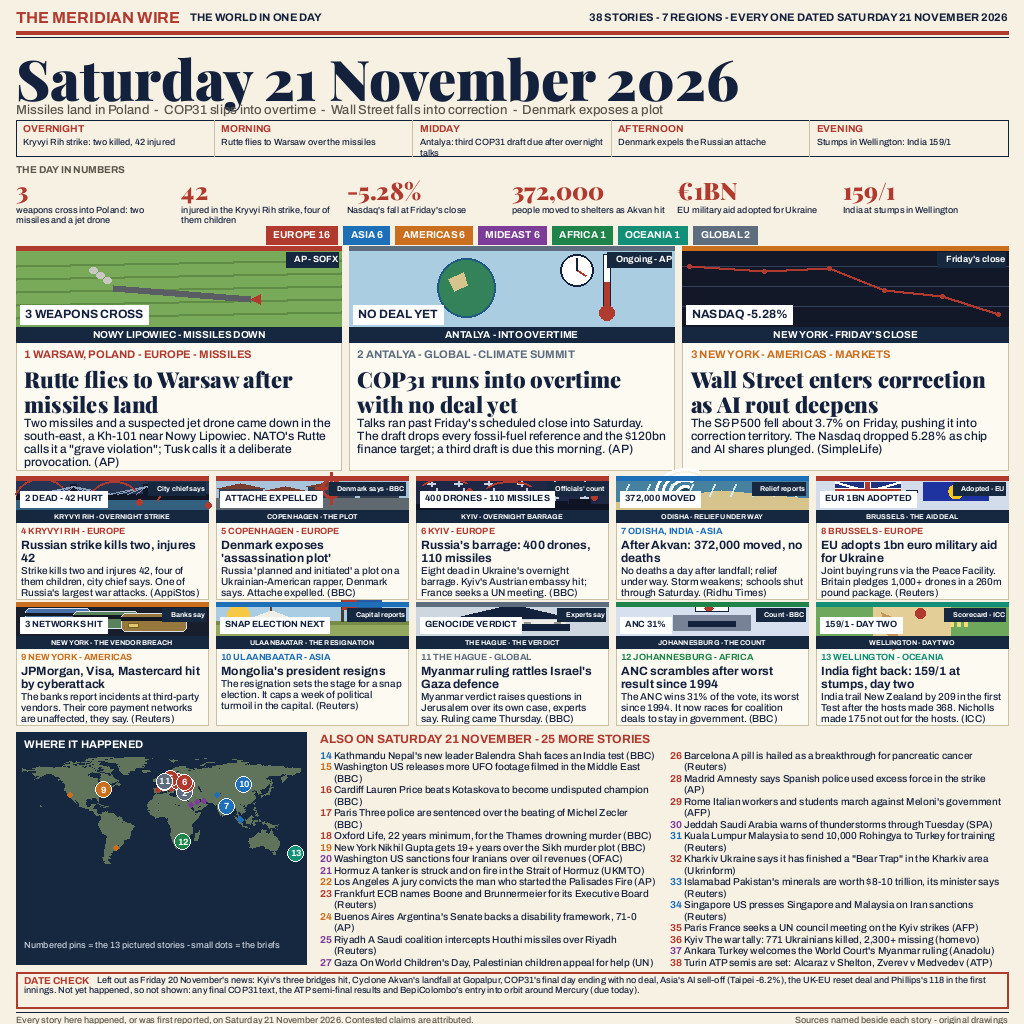
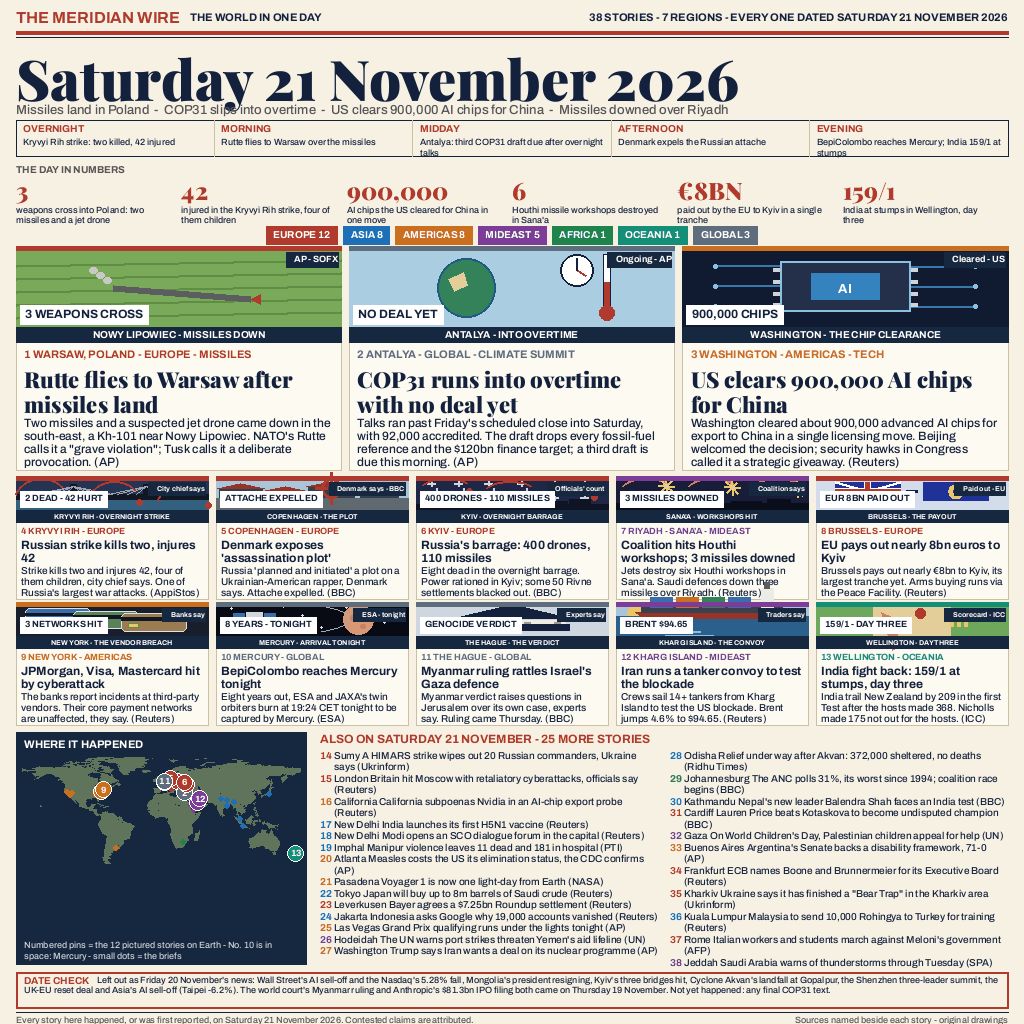
Add files via upload

diff --git a/draw.py b/draw.py
@@ -96,10 +96,10 @@ def fit_size(s, name, start, max_w, floor=10):
 NUMBERS = [
     ("3", "weapons cross into Poland: two missiles and a jet drone"),
     ("42", "injured in the Kryvyi Rih strike, four of them children"),
-    ("-5.28%", "Nasdaq's fall at Friday's close"),
-    ("372,000", "people moved to shelters as Akvan hit"),
-    ("€1BN", "EU military aid adopted for Ukraine"),
-    ("159/1", "India at stumps in Wellington"),
+    ("900,000", "AI chips the US cleared for China in one move"),
+    ("6", "Houthi missile workshops destroyed in Sana'a"),
+    ("€8BN", "paid out by the EU to Kyiv in a single tranche"),
+    ("159/1", "India at stumps in Wellington, day three"),
 ]
 
 TIMELINE = [
@@ -107,12 +107,12 @@ TIMELINE = [
     ("Morning", "Rutte flies to Warsaw over the missiles"),
     ("Midday", "Antalya: third COP31 draft due after overnight talks"),
     ("Afternoon", "Denmark expels the Russian attache"),
-    ("Evening", "Stumps in Wellington: India 159/1"),
+    ("Evening", "BepiColombo reaches Mercury; India 159/1 at stumps"),
 ]
 
 REGION_COUNTS = [
-    ("EUROPE", 16), ("ASIA", 6), ("AMERICAS", 6), ("MIDEAST", 6),
-    ("AFRICA", 1), ("OCEANIA", 1), ("GLOBAL", 2),
+    ("EUROPE", 12), ("ASIA", 8), ("AMERICAS", 8), ("MIDEAST", 5),
+    ("AFRICA", 1), ("OCEANIA", 1), ("GLOBAL", 3),
 ]
 
 # no, place, region, topic, headline, deck (sources in parens), strip source
@@ -127,18 +127,20 @@ CARDS = [
      21.0, 52.2, "poland"),
     (2, "ANTALYA", "GLOBAL", "CLIMATE SUMMIT",
      "COP31 runs into overtime with no deal yet",
-     "Talks ran past Friday's scheduled close into Saturday. The draft "
-     "drops every fossil-fuel reference and the $120bn finance target; "
-     "a third draft is due this morning. (AP)",
+     "Talks ran past Friday's scheduled close into Saturday, with "
+     "92,000 accredited. The draft drops every fossil-fuel reference "
+     "and the $120bn finance target; a third draft is due this "
+     "morning. (AP)",
      "Ongoing - AP", "NO DEAL YET", "ANTALYA - INTO OVERTIME",
      30.7, 36.9, "cop31"),
-    (3, "NEW YORK", "AMERICAS", "MARKETS",
-     "Wall Street enters correction as AI rout deepens",
-     "The S&P 500 fell about 3.7% on Friday, pushing it into "
-     "correction territory. The Nasdaq dropped 5.28% as chip and AI "
-     "shares plunged. (SimpleLife)",
-     "Friday's close", "NASDAQ -5.28%", "NEW YORK - FRIDAY'S CLOSE",
-     -74.0, 40.7, "markets"),
+    (3, "WASHINGTON", "AMERICAS", "TECH",
+     "US clears 900,000 AI chips for China",
+     "Washington cleared about 900,000 advanced AI chips for export "
+     "to China in a single licensing move. Beijing welcomed the "
+     "decision; security hawks in Congress called it a strategic "
+     "giveaway. (Reuters)",
+     "Cleared - US", "900,000 CHIPS", "WASHINGTON - THE CHIP CLEARANCE",
+     -77.0, 38.9, "chips"),
     (4, "KRYVYI RIH", "EUROPE", "STRIKE",
      "Russian strike kills two, injures 42",
      "Strike kills two and injures 42, four of them children, city "
@@ -153,21 +155,21 @@ CARDS = [
      12.6, 55.7, "copenhagen"),
     (6, "KYIV", "EUROPE", "BARRAGE",
      "Russia's barrage: 400 drones, 110 missiles",
-     "Eight dead in Ukraine's overnight barrage. Kyiv's Austrian "
-     "embassy hit; France seeks a UN meeting. (BBC)",
+     "Eight dead in the overnight barrage. Power rationed in Kyiv; "
+     "some 50 Rivne settlements blacked out. (BBC)",
      "Officials' count", "400 DRONES - 110 MISSILES",
      "KYIV - OVERNIGHT BARRAGE", 30.5, 50.4, "barrage"),
-    (7, "ODISHA, INDIA", "ASIA", "CYCLONE AFTERMATH",
-     "After Akvan: 372,000 moved, no deaths",
-     "No deaths a day after landfall; relief under way. Storm "
-     "weakens; schools shut through Saturday. (Ridhu Times)",
-     "Relief reports", "372,000 MOVED", "ODISHA - RELIEF UNDER WAY",
-     84.9, 19.3, "akvan"),
+    (7, "RIYADH - SANA'A", "MIDEAST", "ESCALATION",
+     "Coalition hits Houthi workshops; 3 missiles downed",
+     "Jets destroy six Houthi workshops in Sana'a. Saudi defences "
+     "down three missiles over Riyadh. (Reuters)",
+     "Coalition says", "3 MISSILES DOWNED", "SANA'A - WORKSHOPS HIT",
+     46.7, 24.6, "riyadh"),
     (8, "BRUSSELS", "EUROPE", "MILITARY AID",
-     "EU adopts 1bn euro military aid for Ukraine",
-     "Joint buying runs via the Peace Facility. Britain pledges "
-     "1,000+ drones in a 260m pound package. (Reuters)",
-     "Adopted - EU", "EUR 1BN ADOPTED", "BRUSSELS - THE AID DEAL",
+     "EU pays out nearly 8bn euros to Kyiv",
+     "Brussels pays out nearly \u20ac8bn to Kyiv, its largest tranche "
+     "yet. Arms buying runs via the Peace Facility. (Reuters)",
+     "Paid out - EU", "EUR 8BN PAID OUT", "BRUSSELS - THE PAYOUT",
      4.3, 50.8, "ukeu"),
     (9, "NEW YORK", "AMERICAS", "CYBERATTACK",
      "JPMorgan, Visa, Mastercard hit by cyberattack",
@@ -175,68 +177,69 @@ CARDS = [
      "payment networks are unaffected, they say. (Reuters)",
      "Banks say", "3 NETWORKS HIT", "NEW YORK - THE VENDOR BREACH",
      -73.9, 40.8, "cyber"),
-    (10, "ULAANBAATAR", "ASIA", "RESIGNATION",
-     "Mongolia's president resigns",
-     "The resignation sets the stage for a snap election. It caps a "
-     "week of political turmoil in the capital. (Reuters)",
-     "Capital reports", "SNAP ELECTION NEXT", "ULAANBAATAR - THE RESIGNATION",
-     106.9, 47.9, "mongolia"),
+    (10, "MERCURY", "GLOBAL", "DEEP SPACE",
+     "BepiColombo reaches Mercury tonight",
+     "Eight years out, ESA and JAXA's twin orbiters burn at 19:24 "
+     "CET tonight to be captured by Mercury. (ESA)",
+     "ESA - tonight", "8 YEARS - TONIGHT", "MERCURY - ARRIVAL TONIGHT",
+     None, None, "mercury"),
     (11, "THE HAGUE", "GLOBAL", "WORLD COURT",
      "Myanmar ruling rattles Israel's Gaza defence",
      "Myanmar verdict raises questions in Jerusalem over its own "
      "case, experts say. Ruling came Thursday. (BBC)",
      "Experts say", "GENOCIDE VERDICT", "THE HAGUE - THE VERDICT",
      4.3, 52.1, "seoul"),
-    (12, "JOHANNESBURG", "AFRICA", "ELECTION",
-     "ANC scrambles after worst result since 1994",
-     "The ANC wins 31% of the vote, its worst since 1994. It now "
-     "races for coalition deals to stay in government. (BBC)",
-     "Count - BBC", "ANC 31%", "JOHANNESBURG - THE COUNT",
-     28.0, -26.2, "bukele"),
+    (12, "KHARG ISLAND", "MIDEAST", "OIL",
+     "Iran runs a tanker convoy to test the blockade",
+     "Crews sail 14+ tankers from Kharg Island to test the US "
+     "blockade. Brent jumps 4.6% to $94.65. (Reuters)",
+     "Traders say", "BRENT $94.65", "KHARG ISLAND - THE CONVOY",
+     50.3, 29.2, "tanker"),
     (13, "WELLINGTON", "OCEANIA", "CRICKET",
-     "India fight back: 159/1 at stumps, day two",
+     "India fight back: 159/1 at stumps, day three",
      "India trail New Zealand by 209 in the first Test after the "
      "hosts made 368. Nicholls made 175 not out for the hosts. (ICC)",
-     "Scorecard - ICC", "159/1 - DAY TWO", "WELLINGTON - DAY TWO",
+     "Scorecard - ICC", "159/1 - DAY THREE", "WELLINGTON - DAY THREE",
      174.8, -41.3, "cricket"),
 ]
 
 # no, one-line text (source in parens), region, pin lon/lat (None = off-map)
 BRIEFS = [
-    (14, "Kathmandu Nepal's new leader Balendra Shah faces an India test (BBC)", "ASIA", 85.3, 27.7),
-    (15, "Washington US releases more UFO footage filmed in the Middle East (BBC)", "AMERICAS", -77.0, 38.9),
-    (16, "Cardiff Lauren Price beats Kotaskova to become undisputed champion (BBC)", "EUROPE", -3.2, 51.5),
-    (17, "Paris Three police are sentenced over the beating of Michel Zecler (BBC)", "EUROPE", 2.4, 48.9),
-    (18, "Oxford Life, 22 years minimum, for the Thames drowning murder (BBC)", "EUROPE", -1.3, 51.8),
-    (19, "New York Nikhil Gupta gets 19+ years over the Sikh murder plot (BBC)", "AMERICAS", -74.0, 40.7),
-    (20, "Washington US sanctions four Iranians over oil revenues (OFAC)", "MIDEAST", -77.1, 38.8),
-    (21, "Hormuz A tanker is struck and on fire in the Strait of Hormuz (UKMTO)", "MIDEAST", 56.3, 26.6),
-    (22, "Los Angeles A jury convicts the man who started the Palisades Fire (AP)", "AMERICAS", -118.3, 34.0),
-    (23, "Frankfurt ECB names Boone and Brunnermeier for its Executive Board (Reuters)", "EUROPE", 8.7, 50.1),
-    (24, "Buenos Aires Argentina's Senate backs a disability framework, 71-0 (AP)", "AMERICAS", -58.4, -34.6),
-    (25, "Riyadh A Saudi coalition intercepts Houthi missiles over Riyadh (Reuters)", "MIDEAST", 46.7, 24.6),
-    (26, "Barcelona A pill is hailed as a breakthrough for pancreatic cancer (Reuters)", "EUROPE", 2.2, 41.4),
-    (27, "Gaza On World Children's Day, Palestinian children appeal for help (UN)", "MIDEAST", 34.3, 31.5),
-    (28, "Madrid Amnesty says Spanish police used excess force in the strike (AP)", "EUROPE", -3.7, 40.4),
-    (29, "Rome Italian workers and students march against Meloni's government (AFP)", "EUROPE", 12.5, 41.9),
-    (30, "Jeddah Saudi Arabia warns of thunderstorms through Tuesday (SPA)", "MIDEAST", 39.2, 21.5),
-    (31, "Kuala Lumpur Malaysia to send 10,000 Rohingya to Turkey for training (Reuters)", "ASIA", 101.7, 3.1),
-    (32, "Kharkiv Ukraine says it has finished a \"Bear Trap\" in the Kharkiv area (Ukrinform)", "EUROPE", 36.2, 49.9),
-    (33, "Islamabad Pakistan's minerals are worth $8-10 trillion, its minister says (Reuters)", "ASIA", 73.1, 33.7),
-    (34, "Singapore US presses Singapore and Malaysia on Iran sanctions (Reuters)", "ASIA", 103.8, 1.35),
-    (35, "Paris France seeks a UN council meeting on the Kyiv strikes (AFP)", "EUROPE", 2.3, 48.8),
-    (36, "Kyiv The war tally: 771 Ukrainians killed, 2,300+ missing (homevo)", "EUROPE", 30.6, 50.5),
-    (37, "Ankara Turkey welcomes the World Court's Myanmar ruling (Anadolu)", "MIDEAST", 32.9, 39.9),
-    (38, "Turin ATP semis are set: Alcaraz v Shelton, Zverev v Medvedev (ATP)", "EUROPE", 7.7, 45.1),
+    (14, "Sumy A HIMARS strike wipes out 20 Russian commanders, Ukraine says (Ukrinform)", "EUROPE", 34.8, 50.9),
+    (15, "London Britain hit Moscow with retaliatory cyberattacks, officials say (Reuters)", "EUROPE", -0.1, 51.5),
+    (16, "California California subpoenas Nvidia in an AI-chip export probe (Reuters)", "AMERICAS", -121.5, 38.6),
+    (17, "New Delhi India launches its first H5N1 vaccine (Reuters)", "ASIA", 77.2, 28.6),
+    (18, "New Delhi Modi opens an SCO dialogue forum in the capital (Reuters)", "ASIA", 77.2, 28.6),
+    (19, "Imphal Manipur violence leaves 11 dead and 181 in hospital (PTI)", "ASIA", 93.9, 24.8),
+    (20, "Atlanta Measles costs the US its elimination status, the CDC confirms (AP)", "AMERICAS", -84.4, 33.7),
+    (21, "Pasadena Voyager 1 is now one light-day from Earth (NASA)", "AMERICAS", -118.1, 34.1),
+    (22, "Tokyo Japan will buy up to 8m barrels of Saudi crude (Reuters)", "ASIA", 139.7, 35.7),
+    (23, "Leverkusen Bayer agrees a $7.25bn Roundup settlement (Reuters)", "EUROPE", 7.0, 51.0),
+    (24, "Jakarta Indonesia asks Google why 19,000 accounts vanished (Reuters)", "ASIA", 106.8, -6.2),
+    (25, "Las Vegas Grand Prix qualifying runs under the lights tonight (AP)", "AMERICAS", -115.1, 36.2),
+    (26, "Hodeidah The UN warns port strikes threaten Yemen's aid lifeline (UN)", "MIDEAST", 43.0, 14.8),
+    (27, "Washington Trump says Iran wants a deal on its nuclear programme (AP)", "AMERICAS", -77.0, 38.9),
+    (28, "Odisha Relief under way after Akvan: 372,000 sheltered, no deaths (Ridhu Times)", "ASIA", 84.9, 19.3),
+    (29, "Johannesburg The ANC polls 31%, its worst since 1994; coalition race begins (BBC)", "AFRICA", 28.0, -26.2),
+    (30, "Kathmandu Nepal's new leader Balendra Shah faces an India test (BBC)", "ASIA", 85.3, 27.7),
+    (31, "Cardiff Lauren Price beats Kotaskova to become undisputed champion (BBC)", "EUROPE", -3.2, 51.5),
+    (32, "Gaza On World Children's Day, Palestinian children appeal for help (UN)", "MIDEAST", 34.3, 31.5),
+    (33, "Buenos Aires Argentina's Senate backs a disability framework, 71-0 (AP)", "AMERICAS", -58.4, -34.6),
+    (34, "Frankfurt ECB names Boone and Brunnermeier for its Executive Board (Reuters)", "EUROPE", 8.7, 50.1),
+    (35, "Kharkiv Ukraine says it has finished a \"Bear Trap\" in the Kharkiv area (Ukrinform)", "EUROPE", 36.2, 49.9),
+    (36, "Kuala Lumpur Malaysia to send 10,000 Rohingya to Turkey for training (Reuters)", "ASIA", 101.7, 3.1),
+    (37, "Rome Italian workers and students march against Meloni's government (AFP)", "EUROPE", 12.5, 41.9),
+    (38, "Jeddah Saudi Arabia warns of thunderstorms through Tuesday (SPA)", "MIDEAST", 39.2, 21.5),
 ]
 
 DATE_CHECK = (
-    "Left out as Friday 20 November's news: Kyiv's three bridges hit, "
-    "Cyclone Akvan's landfall at Gopalpur, COP31's final day ending with "
-    "no deal, Asia's AI sell-off (Taipei -6.2%), the UK-EU reset deal and "
-    "Phillips's 118 in the first innings. Not yet happened, so not "
-    "shown: any final COP31 text, the ATP semi-final results and "
-    "BepiColombo's entry into orbit around Mercury (due today)."
+    "Left out as Friday 20 November's news: Wall Street's AI sell-off "
+    "and the Nasdaq's 5.28% fall, Mongolia's president resigning, "
+    "Kyiv's three bridges hit, Cyclone Akvan's landfall at Gopalpur, "
+    "the Shenzhen three-leader summit, the UK-EU reset deal and "
+    "Asia's AI sell-off (Taipei -6.2%). The world court's Myanmar "
+    "ruling and Anthropic's $81.3bn IPO filing both came on Thursday "
+    "19 November. Not yet happened: any final COP31 text."
 )
 
 FOOTER_L = ("Every story here happened, or was first reported, on Saturday "
@@ -259,7 +262,8 @@ def draw_header():
     size = fit_size(title, SERIF, 56, CW)
     text(MX, 40, title, F(SERIF, size), INK)
     deck = ("Missiles land in Poland  -  COP31 slips into overtime  -  "
-            "Wall Street falls into correction  -  Denmark exposes a plot")
+            "US clears 900,000 AI chips for China  -  "
+            "Missiles downed over Riyadh")
     text(MX, 102, deck, F(SANSM, 13), GREY)
 
     # UTC timeline strip
@@ -612,13 +616,112 @@ def sc_mongolia(x0, y0, x1, y1):
                 fill=RED)
 
 
+def sc_chips(x0, y0, x1, y1):
+    d.rectangle([x0, y0, x1, y1], fill=(16, 26, 48))
+    w, h = x1 - x0, y1 - y0
+    for fx in (0.10, 0.90):                                     # traces
+        for fy in (0.25, 0.50, 0.75):
+            px, py = x0 + w * fx, y0 + h * fy
+            d.line([x0 + w * 0.30 if fx < 0.5 else x0 + w * 0.70, py,
+                    px, py], fill=(60, 120, 170), width=2)
+            d.ellipse([px - 2, py - 2, px + 2, py + 2], fill=(120, 200, 240))
+    cw_, ch_ = w * 0.40, h * 0.62                               # the chip
+    bx, by = x0 + w * 0.30, y0 + h * 0.19
+    for i in range(4):                                          # pins
+        py = by + ch_ * (0.15 + i * 0.23)
+        d.rectangle([bx - 7, py, bx, py + 3], fill=(200, 205, 215))
+        d.rectangle([bx + cw_, py, bx + cw_ + 7, py + 3],
+                    fill=(200, 205, 215))
+    d.rectangle([bx, by, bx + cw_, by + ch_], fill=(36, 48, 74),
+                outline=(140, 190, 230), width=2)
+    iw, ih = cw_ * 0.52, ch_ * 0.52
+    d.rectangle([bx + (cw_ - iw) / 2, by + (ch_ - ih) / 2,
+                 bx + (cw_ + iw) / 2, by + (ch_ + ih) / 2],
+                fill=(52, 130, 190))
+    text(bx + cw_ / 2, by + ch_ * 0.40, "AI", F(SANSB, 13), WHITE,
+         anchor="ma")
+
+
+def sc_riyadh(x0, y0, x1, y1):
+    d.rectangle([x0, y0, x1, y1], fill=(24, 30, 58))
+    w, h = x1 - x0, y1 - y0
+    for i, fx in enumerate((0.16, 0.50, 0.84)):                 # trails
+        sx, sy = x0 + w * fx, y0 + h * 0.62
+        d.arc([sx - 26, y0 + 2, sx + 26, y0 + h * 0.80],
+              start=200, end=330, fill=(200, 120, 90), width=2)
+        ex, ey = sx + 20, y0 + h * (0.30 + i * 0.05)            # burst
+        for a in range(0, 360, 45):
+            import math
+            dx, dy = math.cos(math.radians(a)), math.sin(math.radians(a))
+            d.line([ex, ey, ex + dx * 8, ey + dy * 8],
+                   fill=(250, 200, 90), width=2)
+        d.ellipse([ex - 2, ey - 2, ex + 2, ey + 2], fill=(255, 230, 150))
+    gy = y1 - h * 0.18                                          # skyline
+    d.rectangle([x0, gy, x1, y1], fill=(10, 14, 26))
+    for i, bw in enumerate((0.12, 0.18, 0.10, 0.16, 0.12)):
+        bx = x0 + w * (0.03 + i * 0.19)
+        d.rectangle([bx, gy - h * (0.08 + (i % 3) * 0.05),
+                     bx + w * bw, gy], fill=(10, 14, 26))
+
+
+def sc_mercury(x0, y0, x1, y1):
+    d.rectangle([x0, y0, x1, y1], fill=(8, 10, 20))
+    w, h = x1 - x0, y1 - y0
+    for i, (fx, fy) in enumerate(((0.08, 0.2), (0.2, 0.65), (0.35, 0.12),
+                                  (0.55, 0.75), (0.68, 0.15), (0.88, 0.6),
+                                  (0.45, 0.4), (0.12, 0.85))):  # stars
+        px, py = x0 + w * fx, y0 + h * fy
+        d.ellipse([px - 1, py - 1, px + 1, py + 1], fill=(220, 228, 245))
+    pr = h * 0.44                                               # Mercury
+    cx, cy = x1 - w * 0.26, y0 + h * 0.52
+    d.ellipse([cx - pr, cy - pr, cx + pr, cy + pr], fill=(216, 150, 92))
+    d.ellipse([cx - pr * 0.55, cy - pr * 0.3, cx - pr * 0.2,
+               cy + pr * 0.05], fill=(190, 124, 74))
+    d.ellipse([cx + pr * 0.15, cy + pr * 0.3, cx + pr * 0.5,
+               cy + pr * 0.6], fill=(198, 134, 80))
+    sx, sy = x0 + w * 0.16, y0 + h * 0.30                       # spacecraft
+    d.rectangle([sx, sy, sx + 16, sy + 9], fill=(210, 214, 222))
+    d.rectangle([sx - 13, sy + 1, sx - 2, sy + 8], fill=(52, 110, 180))
+    d.rectangle([sx + 18, sy + 1, sx + 29, sy + 8], fill=(52, 110, 180))
+    d.arc([sx - 6, sy - 8, cx - pr * 0.6, cy + pr * 0.9],
+          start=300, end=60, fill=(150, 170, 200), width=1)
+
+
+def sc_tanker(x0, y0, x1, y1):
+    d.rectangle([x0, y0, x1, y1], fill=(168, 200, 222))
+    w, h = x1 - x0, y1 - y0
+    d.ellipse([x0 + w * 0.06, y0 + h * 0.08, x0 + w * 0.06 + 20,
+               y0 + h * 0.08 + 20], fill=(245, 200, 70))
+    sy = y0 + h * 0.42                                          # sea
+    d.rectangle([x0, sy, x1, y1], fill=(44, 96, 140))
+    for i in range(4):
+        wy = sy + 6 + i * (h * 0.13)
+        d.line([x0 + w * (0.05 + i * 0.07), wy, x0 + w * (0.30 + i * 0.07),
+                wy], fill=(120, 175, 205), width=2)
+    hx, hy = x0 + w * 0.10, sy - h * 0.10                       # tanker
+    hw = w * 0.80
+    d.polygon([(hx, hy), (hx + hw, hy), (hx + hw - 14, hy + h * 0.16),
+               (hx + 8, hy + h * 0.16)], fill=(150, 52, 40))
+    d.rectangle([hx + 6, hy - 5, hx + hw - 6, hy], fill=(60, 64, 70))
+    for i, col in enumerate(((52, 110, 170), (202, 111, 30),
+                             (40, 130, 90), (52, 110, 170))):
+        cx = hx + hw * 0.10 + i * hw * 0.17
+        d.rectangle([cx, hy - 15, cx + hw * 0.14, hy - 5], fill=col)
+    d.rectangle([hx + hw * 0.82, hy - 24, hx + hw * 0.90, hy - 5],
+                fill=(235, 235, 230))
+    d.rectangle([hx + hw * 0.845, hy - 30, hx + hw * 0.875, hy - 24],
+                fill=(90, 94, 100))
+
+
 SCENES = {"kyiv": sc_kyiv, "akvan": sc_akvan, "markets": sc_markets,
           "ukeu": sc_ukeu, "cop31": sc_cop31, "poland": sc_poland,
           "iraq": sc_iraq, "italy": sc_italy, "japan": sc_japan,
           "seoul": sc_seoul, "kenya": sc_kenya, "bukele": sc_bukele,
           "cricket": sc_cricket, "barrage": sc_barrage,
           "copenhagen": sc_copenhagen, "cyber": sc_cyber,
-          "mongolia": sc_mongolia}
+          "mongolia": sc_mongolia, "chips": sc_chips,
+          "riyadh": sc_riyadh, "mercury": sc_mercury,
+          "tanker": sc_tanker}
 
 
 def draw_strip(card, x, y, w, h, band_h, tag_size, label_size):
@@ -712,13 +815,16 @@ def draw_map(x, y, w, h):
     for card in CARDS:
         (no, place, region, topic, head, deck, srctag, label, caption,
          lon, lat, scene) = card
+        if lon is None:
+            continue  # card 10 is in space: Mercury has no map pin
         px, py = proj(lon, lat)
         d.ellipse([px - 8, py - 8, px + 8, py + 8],
                   fill=REGION_RGB[region], outline=WHITE, width=1)
         text(px, py - 5, str(no), F(SANSB, 9), WHITE, anchor="ma")
     ly = y + h - 24
-    for ln in wrap("Numbered pins = the 13 pictured stories - small dots "
-                   "= the briefs", F(SANSM, 9), w - 16, 2):
+    for ln in wrap("Numbered pins = the 12 pictured stories on Earth - "
+                   "No. 10 is in space: Mercury - small dots = the briefs",
+                   F(SANSM, 9), w - 16, 2):
         text(x + 8, ly, ln, F(SANSM, 9), (200, 208, 220))
         ly += 11
 
@@ -792,7 +898,13 @@ def main():
     by = draw_bottom(by)
     by = draw_date_check(by)
     draw_footer(by)
-    img.save(OUT, optimize=True)
+    # Palette-quantize the flat illustration: same page, far fewer bytes
+    # (the dev board breaks score ties on smaller files).
+    q = img.quantize(colors=256, method=Image.MEDIANCUT,
+                     dither=Image.NONE)
+    q.save(OUT, optimize=True)
+    img.resize((300, 300), Image.LANCZOS).save(
+        os.path.join(HERE, "entry-300.png"), optimize=True)
     print("wrote", OUT, os.path.getsize(OUT), "bytes")
 
 

diff --git a/README.md b/README.md
@@ -6,14 +6,15 @@
 
 A single 1024x1024 front page summing up Saturday 21 November 2026: 38 stories
 from 7 regions — missiles landing in Poland, COP31 slipping into overtime,
-Wall Street's fall into correction, the Kryvyi Rih strike, Denmark's exposed
-plot and 33 more.
+the US clearing 900,000 AI chips for China, missiles downed over Riyadh,
+BepiColombo reaching Mercury, the Kharg Island tanker convoy and 32 more.
 
 Every story names its sources on the page, per-card source tags sit on each
 illustrated strip, and each strip carries the story's own data label.
-The map is drawn from real country polygons, with numbered pins for the 13
-pictured stories and dots for the briefs; a DATE CHECK box names the
-Friday stories deliberately left out.
+The map is drawn from real country polygons, with numbered pins for the 12
+pictured stories on Earth (No. 10 is in space: Mercury) and dots for the
+briefs; a DATE CHECK box names the Friday and Thursday stories deliberately
+left out.
 
 All illustrations are original drawings — flat shapes composed by draw.py,
 a deterministic Pillow program (stdlib + PIL only, no network, no randomness).
